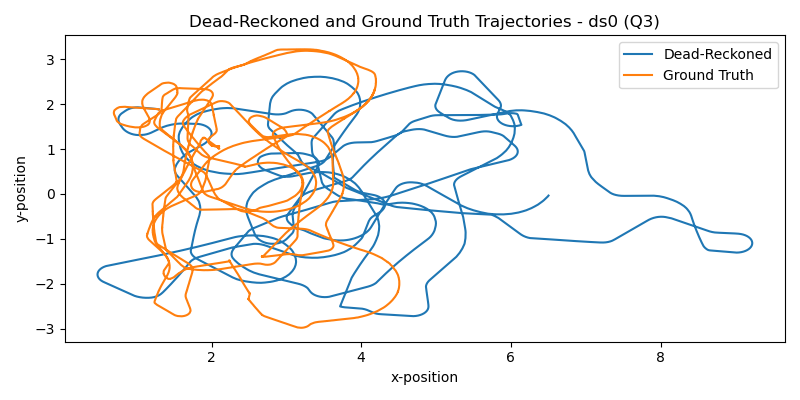
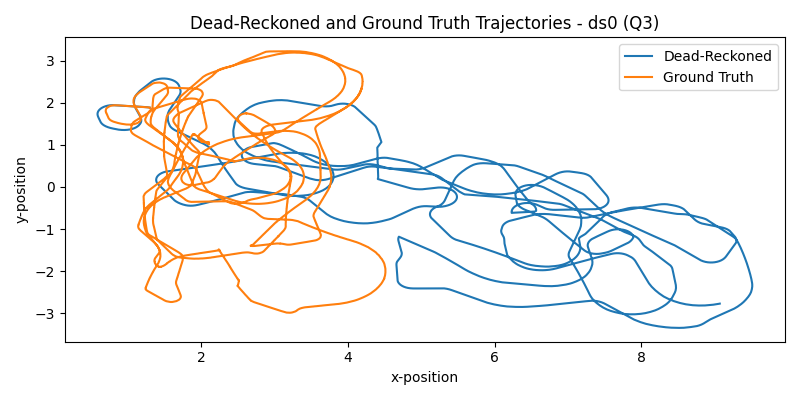
Added tsync options to motion model

diff --git a/run.py b/run.py
@@ -18,7 +18,7 @@ DATA_PATH = os.path.join(__file__, "../data")
 # --- Simulation Functions ---
 #
 
-def integrate_rk4(f, x0, t0, tf, h, u_traj, tspan=None):
+def integrate_rk4(f, x0, t0, tf, h, u_traj, tspan=None, tsync='const'):
     """
     RK4 integration and simulator
 
@@ -28,6 +28,8 @@ def integrate_rk4(f, x0, t0, tf, h, u_traj, tspan=None):
         t0: Initial simulation time
         tf: Ending simulation time
         h: Timestep
+        tspan: If given a preexisting time series, can optionally use that instead
+        tsync: Time synchronization, either at constant or variable timestep - 'const' | 'var'
     """
     def rk4(f, x, u, t, h):
         k1 = f(x, t, u)
@@ -43,11 +45,14 @@ def integrate_rk4(f, x0, t0, tf, h, u_traj, tspan=None):
     prev_time = tspan[0]
     prev_control = u_traj
     for (i, t), u in zip(enumerate(tspan), u_traj):
-        # Control signals are not commanded at a fixed timestep.
-        # We can simulate at a fixed timestep, but send commands at proper times. In this implementation
-        # the previous command is held onto, and used if it is still commanded at the current t.
-        if (not i == 0) and (prev_time + h < t):
-            u = prev_control
+        if tsync == 'const':
+            # Control signals are not commanded at a fixed timestep.
+            # We can simulate at a fixed timestep, but send commands at proper times. In this implementation
+            # the previous command is held onto, and used if it is still commanded at the current t.
+            if (not i == 0) and (prev_time + h < t):
+                u = prev_control
+        else:
+            h = t - prev_time  
         sim[i] = x
         x = rk4(f, x, u, t, h)
         prev_time = t
